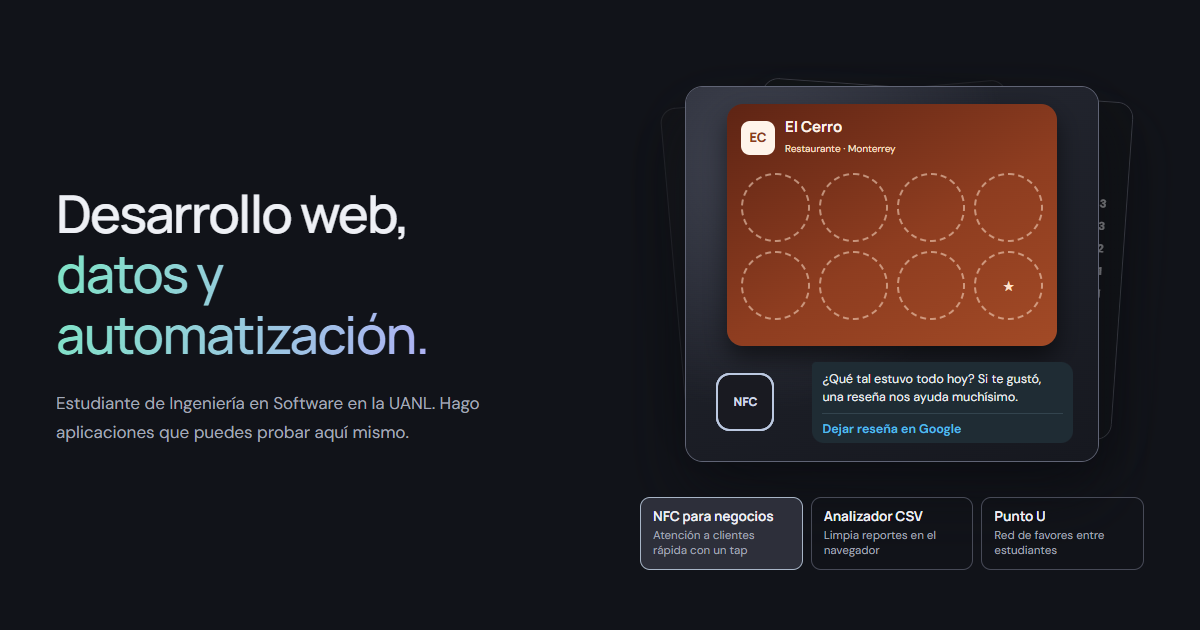
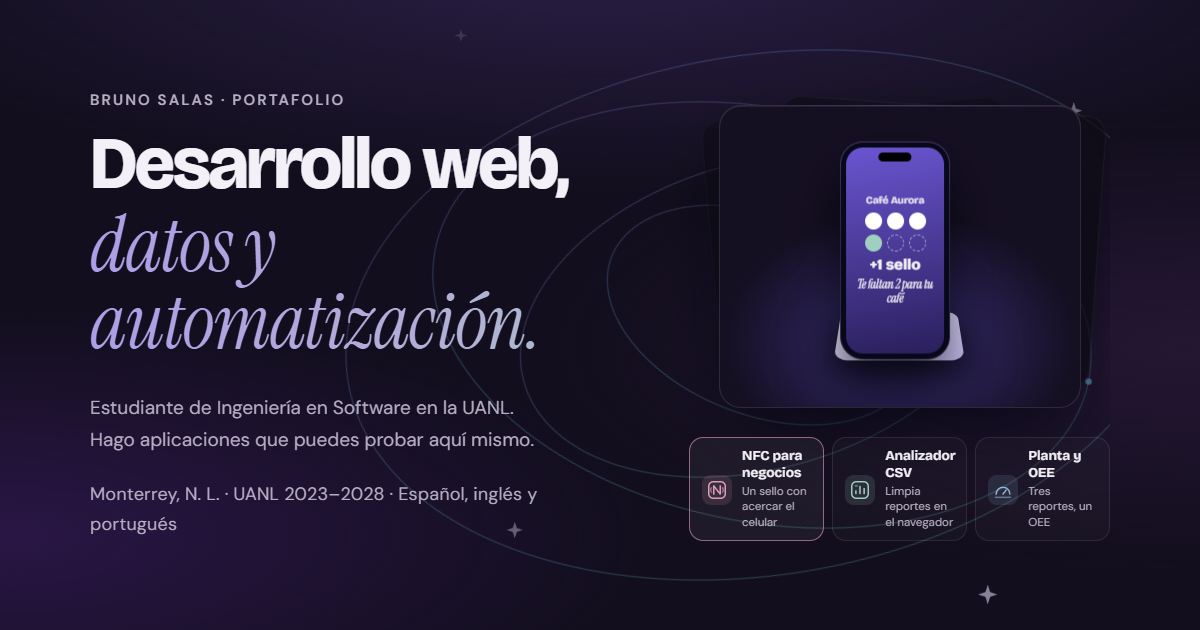
Portada: Planta en la vitrina y nueva imagen para compartir
Punto U sale de la vitrina porque hoy no carga datos; entra Planta con
sus anillos de OEE. Imagen og.png con la portada actual, descripciones
al dia y sin la ruta /propuestas. En celular cada fila del portafolio
queda en imagen, titulo, frase y boton. Rosa y coral mas apagados.

diff --git a/src/HeroShowcase.tsx b/src/HeroShowcase.tsx
@@ -1,21 +1,22 @@
 import { useEffect, useState } from 'react';
 import CsvChart from './CsvChart';
+import PlantaPreview from './PlantaPreview';
 import './hero-showcase.css';
 
-// Portada: tres proyectos reales apilados que rotan solos. La tarjeta del frente lleva a su página.
+// Portada: tres proyectos que se pueden probar, apilados que rotan solos. La tarjeta del frente lleva a su página.
 const SLIDES = [
  { slug: 'club-nfc', title: 'NFC para negocios', note: ['Un sello con acercar el celular', 'A stamp with one tap'], kind: 'nfc' },
  { slug: 'analizador-csv', title: 'Analizador CSV', note: ['Limpia reportes en el navegador', 'Cleans reports in the browser'], kind: 'chart' },
- { slug: 'punto-u', title: 'Punto U', note: ['Red de favores entre estudiantes', 'A favor network for students'], kind: 'phone', img: '/media/punto-u.webp' },
+ { slug: 'planta', title: 'Planta y OEE', note: ['Tres reportes, un OEE', 'Three reports, one OEE'], kind: 'planta' },
 ] as const;
 
-// Íconos de línea para cada proyecto: el símbolo NFC clásico, una gráfica y un pin en el mapa.
+// Íconos de línea para cada proyecto: el símbolo NFC clásico, una gráfica y un medidor.
 export function ProjectIcon({ kind }: { kind: string }) {
  const p = { fill: 'none', stroke: 'currentColor', strokeWidth: 1.6, strokeLinecap: 'round' as const, strokeLinejoin: 'round' as const };
  return <svg className="hs-icon" viewBox="0 0 24 24" aria-hidden="true">
   {kind === 'nfc' && <><rect x="3" y="3" width="18" height="18" rx="5" {...p}/><path d="M8.5 16.5V7.5l7 9V7.5" {...p}/><path d="M6 9.5a4 4 0 0 0 0 5M18 9.5a4 4 0 0 1 0 5" {...p} opacity=".55"/></>}
   {kind === 'chart' && <><rect x="3" y="3" width="18" height="18" rx="5" {...p}/><path d="M7.5 16v-3M12 16V8M16.5 16v-5.5" {...p}/><path d="M7 7.5h2" {...p} opacity=".55"/></>}
-  {kind === 'phone' && <><path d="M12 21s-6.5-5.4-6.5-10.5a6.5 6.5 0 0 1 13 0C18.5 15.6 12 21 12 21z" {...p}/><circle cx="12" cy="10.5" r="2.4" {...p}/></>}
+  {kind === 'planta' && <><path d="M4.5 16.5a7.5 7.5 0 0 1 15 0" {...p}/><path d="M12 16.5l3.5-4.5" {...p}/><path d="M4 20h16" {...p} opacity=".55"/></>}
  </svg>;
 }
 
@@ -53,7 +54,7 @@ export default function HeroShowcase({ lang, paused }: { lang: 'es' | 'en'; paus
     const pos = (i - front + SLIDES.length) % SLIDES.length;
     return <a key={s.slug} href={`/proyectos/${s.slug}`} data-title={s.title} className={`hs-card hs-${s.kind} hs-pos${pos}`} tabIndex={pos === 0 ? 0 : -1} aria-hidden={pos !== 0}
      aria-label={`${s.title} — ${s.note[L]}. ${es ? 'Ver proyecto' : 'View project'}`}>
-     {s.kind === 'nfc' ? (pos === 0 && <NfcTap key={front} lang={lang}/>) : s.kind === 'chart' ? <div className="hs-rect"><CsvChart lang={lang}/></div> : <img src={s.img} width="600" height="1300" alt="" loading={i ? 'lazy' : undefined}/>}
+     {s.kind === 'nfc' ? (pos === 0 && <NfcTap key={front} lang={lang}/>) : s.kind === 'chart' ? <div className="hs-rect"><CsvChart lang={lang}/></div> : <div className="hs-plant"><PlantaPreview lang={lang}/></div>}
     </a>;
    })}
   </div>

diff --git a/index.html b/index.html
@@ -1,5 +1,5 @@
 <!doctype html>
-<html lang="es"><head><meta charset="UTF-8"/><meta name="viewport" content="width=device-width, initial-scale=1.0"/><meta name="theme-color" content="#120e1d"/><meta name="description" content="Bruno Salas Rodríguez, estudiante de Ingeniería en Software (UANL). Proyectos que puedes probar: Punto U, un club de clientes con NFC y un analizador de CSV."/><meta property="og:title" content="Bruno Salas — Web, datos y automatización"/><meta property="og:description" content="Aplicaciones web que se pueden probar: Punto U, un club de clientes con NFC y un analizador de CSV."/><meta property="og:type" content="website"/><meta property="og:image" content="https://bruno-portfolio-azure.vercel.app/og.png"/><meta property="og:image:width" content="1200"/><meta property="og:image:height" content="630"/><meta name="twitter:card" content="summary_large_image"/><link rel="icon" href="/favicon.svg" type="image/svg+xml"/><title>Bruno Salas — Web, datos y automatización</title>
+<html lang="es"><head><meta charset="UTF-8"/><meta name="viewport" content="width=device-width, initial-scale=1.0"/><meta name="theme-color" content="#120e1d"/><meta name="description" content="Bruno Salas Rodríguez, estudiante de Ingeniería en Software (UANL). Proyectos que puedes probar: tarjeta de sellos y menú con NFC, analizador de CSV y un consolidador de reportes de planta con OEE."/><meta property="og:title" content="Bruno Salas — Web, datos y automatización"/><meta property="og:description" content="Aplicaciones web que se pueden probar: NFC para negocios, analizador de CSV y consolidador de planta con OEE."/><meta property="og:type" content="website"/><meta property="og:image" content="https://bruno-portfolio-azure.vercel.app/og.png"/><meta property="og:image:width" content="1200"/><meta property="og:image:height" content="630"/><meta name="twitter:card" content="summary_large_image"/><link rel="icon" href="/favicon.svg" type="image/svg+xml"/><title>Bruno Salas — Web, datos y automatización</title>
 <script>try{if(location.pathname==='/'&&!sessionStorage.getItem('bruno-intro')&&!matchMedia('(prefers-reduced-motion: reduce)').matches)document.documentElement.classList.add('intro-on')}catch(e){}</script>
 <style>html,body{background:#120e1d}#intro{display:none}.intro-on #intro{display:flex}.intro-on body{overflow:hidden}</style>
 </head><body>

diff --git a/src/brand.css b/src/brand.css
@@ -1,7 +1,7 @@
 /* Identidad: noche índigo con lila, cian y menta; títulos en Bricolage Grotesque y subtítulos
    en Instrument Serif itálica. Va al final para mandar sobre los estilos anteriores. */
 :root{--bg:#120e1d;--surface:#1b1629;--surface-2:#231c35;--line:#302743;--text:#f4f0f7;--muted:#b7aec4;
- --lilac:#a894f0;--cyan:#b3aed8;--rose:#dd9fbd;--gold:#d9c08a;--mint:#9fd0bf;--violet:#b9a7ff;--amber:var(--gold);--coral:#ff6b8b;
+ --lilac:#a894f0;--cyan:#b3aed8;--rose:#dd9fbd;--gold:#d9c08a;--mint:#9fd0bf;--violet:#b9a7ff;--amber:var(--gold);--coral:#e58fa0;
  --accent:var(--lilac);--on-accent:#120c30;
  --display:'Bricolage Grotesque Variable','Manrope Variable',sans-serif;--serif:'Instrument Serif',Georgia,serif;
  background:var(--bg);color:var(--text)}
@@ -163,7 +163,7 @@ html[data-motion=paused] .hero h1 em{animation:none}
 
 /* Vista previa del NFC en la lista: su propio color y el chip abajo, sin tapar la tarjeta */
 .row .ld-preview{background:radial-gradient(circle at 82% 12%,#dd9fbd38,transparent 50%),radial-gradient(circle at 8% 92%,#a894f033,transparent 55%),linear-gradient(160deg,#241a38,#140f20)}
-.row .ld-preview .ld-pass{background:linear-gradient(150deg,#4a2266,#a2437a 60%,#e86aa6);box-shadow:0 24px 50px #0008}
+.row .ld-preview .ld-pass{background:linear-gradient(150deg,#3b2352,#6d3a68 60%,#9b5d88);box-shadow:0 24px 50px #0008}
 .row .ld-preview-chip{top:auto;right:clamp(18px,6%,48px);bottom:clamp(18px,6%,40px);width:62px;height:62px;border:0;border-radius:16px;background:#f4f1ff;color:#2a1f5c}
 .row .ld-preview-chip i{border-color:#dd9fbd}
 /* El analizador en rectángulo: letras completas */
@@ -304,3 +304,5 @@ html,body{overflow-x:clip}
 /* «Cómo funciona»: una columna por paso (3, 4 o 5) para que ninguno quede huérfano abajo */
 @media(min-width:861px){.how ol{grid-template-columns:repeat(var(--n,3),minmax(0,1fr));gap:clamp(20px,3vw,40px)}}
 .pano-thumbs img{height:auto}
+/* Portada en celular: cada fila es imagen, título, una frase y el botón; la descripción y las cifras viven en la página del proyecto */
+@media(max-width:760px){.row .project-info>p:not(.pitch),.row .project-metrics{display:none}.row{gap:18px}.row .project-links{margin-top:18px}.row .project-media{aspect-ratio:4/3}}

diff --git a/src/hero-showcase.css b/src/hero-showcase.css
@@ -12,7 +12,7 @@
 /* El analizador como rectángulo: sin estirarse, centrado en la tarjeta */
 .hs-chart{display:grid;place-items:center;padding:6%}
 .hs-rect{width:100%;aspect-ratio:16/9;border-radius:16px;overflow:hidden;border:1px solid #ffffff14;box-shadow:0 20px 40px #0006}
-.hs-rect .cc{min-height:0;height:100%;padding:6% 7%;background:radial-gradient(ellipse 70% 90% at 15% 40%,#173a3a,#111330 70%)}
+.hs-rect .cc{min-height:0;height:100%;padding:6% 7%;background:radial-gradient(ellipse 70% 90% at 15% 40%,#2a2045,#150f22 70%)}
 .hs-rect .cc-gauge{max-width:150px}
 .hs-rect .cc-bars{gap:6px}
 .hs-rect .cc-row{font-size:11.5px}
@@ -53,3 +53,7 @@ html[data-motion=paused] .nt *{animation-play-state:paused!important}
 @keyframes hs-progress{from{transform:scaleX(0)}}
 @media(max-width:640px){.hs-stage{aspect-ratio:1.05}.hs-card{inset:4% 5%}.hs-tabs small{display:none}.hs-tabs button{flex-direction:column;align-items:flex-start;gap:6px}.nt-phone{width:36%}.nt-tag{width:44%}}
 @media(prefers-reduced-motion:reduce){.hs-card{transition:none}.hs-progress{display:none}.nt *{animation:none!important}.nt-phone{transform:translate(-50%,8%)}.nt-stamps b.new{transform:none}.nt-screen strong,.nt-screen em{opacity:1}}
+/* Planta en la vitrina: los anillos de OEE al centro */
+.hs-plant{display:grid;place-items:center;height:100%;padding:8% 6%}
+.hs-plant .plp{width:100%}
+.t-planta{--t:#8fb7d6}

diff --git a/src/planta.css b/src/planta.css
@@ -101,3 +101,4 @@ html[data-motion=paused] .pl *{animation:none!important}
 @keyframes plp-loop{0%{stroke-dashoffset:100}30%,85%{stroke-dashoffset:var(--o)}100%{stroke-dashoffset:100}}
 html[data-motion=paused] .plp *{animation-play-state:paused!important}
 .plp{--good:#9fd0bf;--mid:#d9c08a;--low:#e58fa0}
+html[data-motion=paused] .plp .pl-arc{animation:none!important;stroke-dashoffset:var(--o)}
